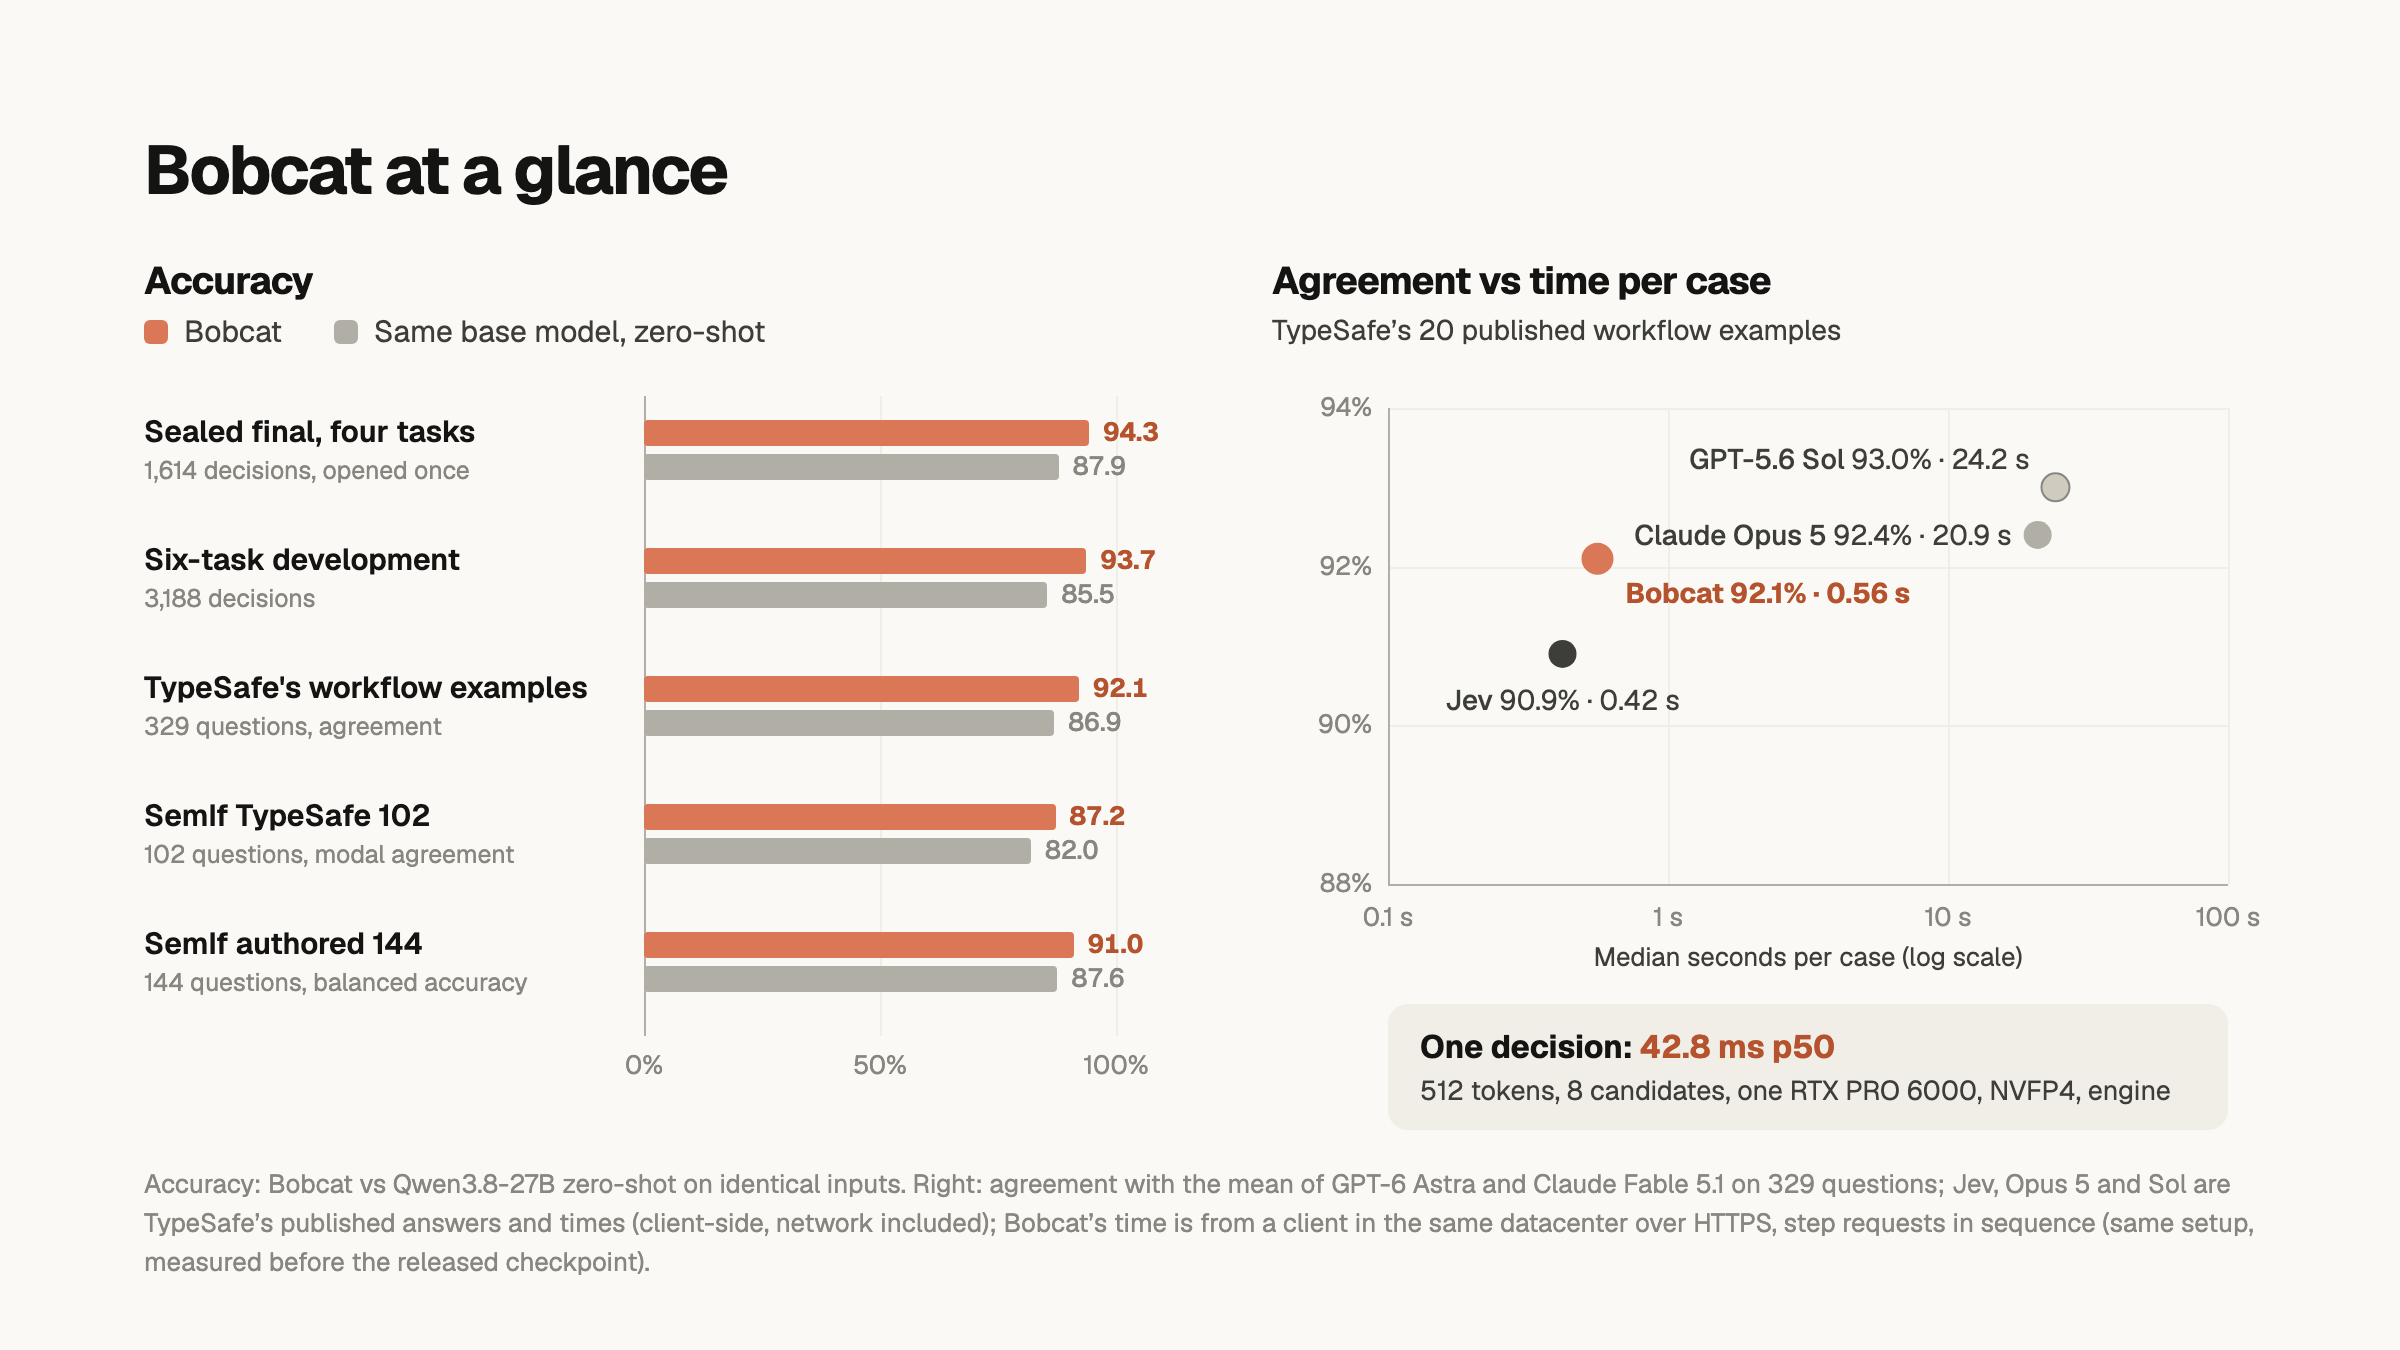
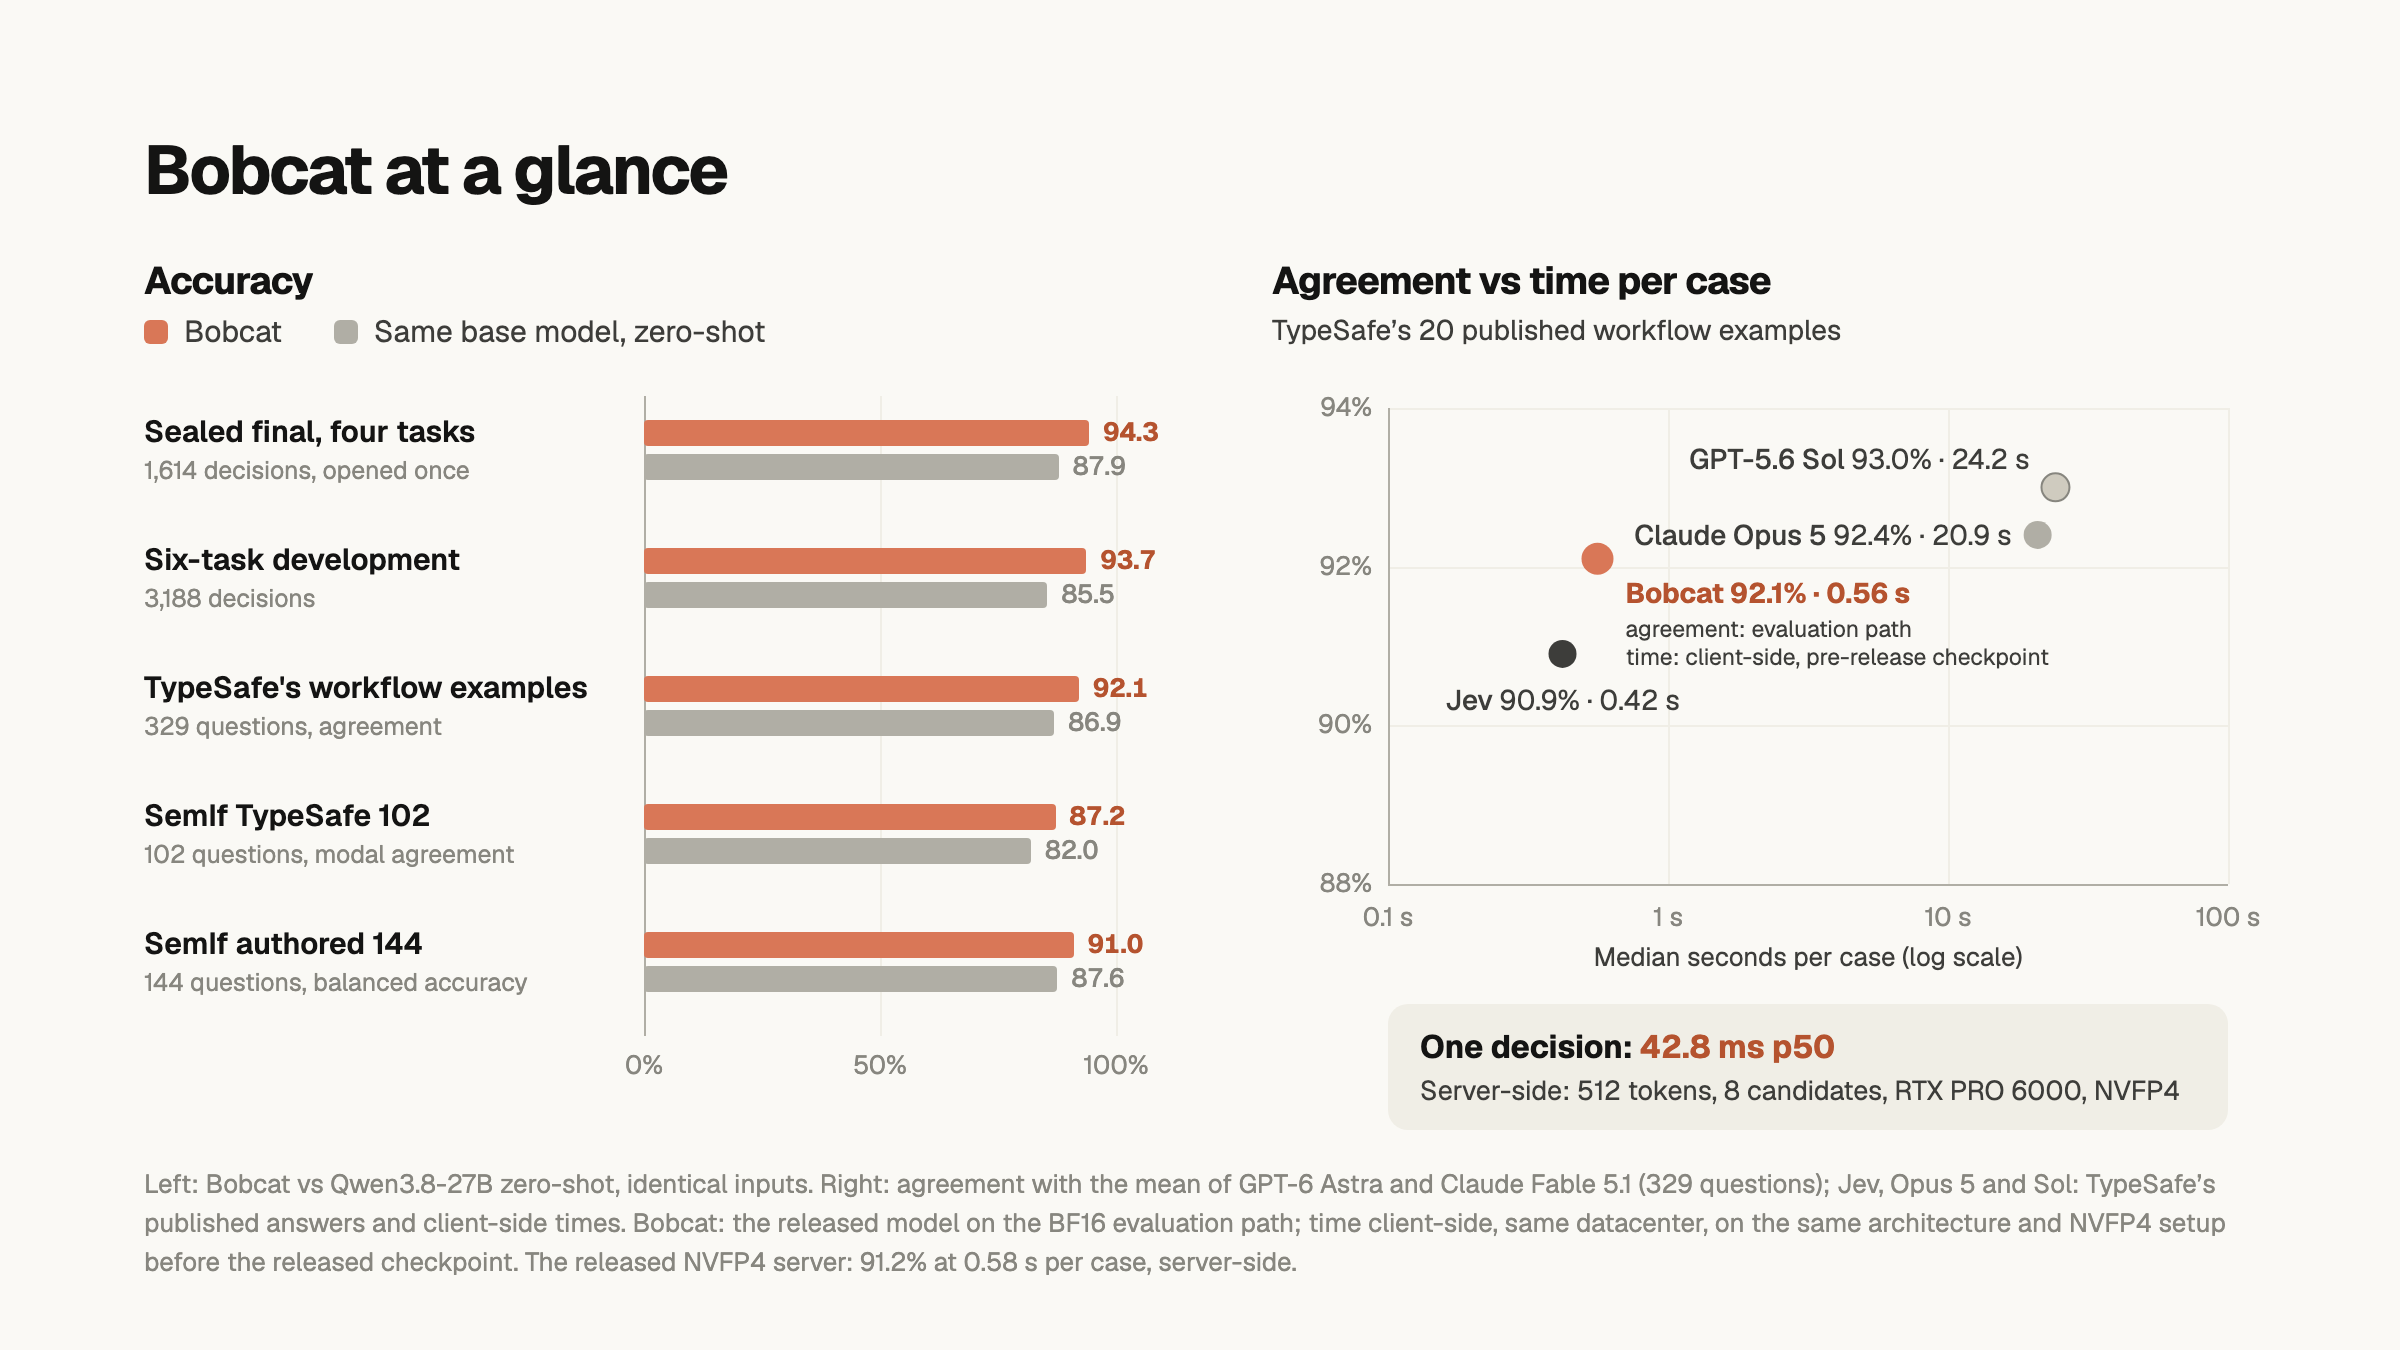
README: the blog's at-a-glance figure with both conditions labelled and its caption; NVFP4 card: weights size 20.6 GB

Changed region(s): [[0.0625, 0.8711, 0.9375, 0.9644], [0.5938, 0.7778, 0.9062, 0.84], [0.6562, 0.4667, 0.8438, 0.4978]]

diff --git a/README.md b/README.md
@@ -28,12 +28,12 @@
 
 ---
 
-![Bobcat at a glance. Left, accuracy against the same base model zero-shot on identical inputs: sealed final (four tasks, 1,614 decisions) 94.3% against 87.9%, six-task development 93.7% against 85.5%, TypeSafe's workflow examples 92.1% against 86.9%, SemIf TypeSafe 102 87.2% against 82.0%, SemIf authored 144 91.0% against 87.6%. Right, agreement with TypeSafe's reference against median time per case on TypeSafe's 20 published workflow examples: Jev 90.9% at 0.42 s, Bobcat 92.1% (evaluation path) at 0.56 s (same architecture, from a client in the same datacenter, measured before the released checkpoint), Claude Opus 5 92.4% at 20.9 s, GPT-5.6 Sol 93.0% at 24.2 s. One decision takes 42.8 ms at the median on one RTX PRO 6000 in NVFP4.](assets/readme/bobcat-at-a-glance.png)
+![Bobcat at a glance. Left, accuracy against the same base model zero-shot on identical inputs: four-task sealed final 94.3% against 87.9%, six-task development 93.7% against 85.5%, TypeSafe's workflow examples 92.1% against 86.9%, SemIf TypeSafe 102 87.2% against 82.0%, SemIf authored 144 91.0% against 87.6%. Right, agreement with TypeSafe's reference against median time per case on TypeSafe's 20 published workflow examples, log time axis: Jev 90.9% at 0.42 s client-side as published, Bobcat 92.1% agreement from the evaluation path at 0.56 s client-side from the same datacenter on the same architecture before the released checkpoint, Claude Opus 5 92.4% at 20.9 s, GPT-5.6 Sol 93.0% at 24.2 s. One decision takes 42.8 ms at the median server-side on one RTX PRO 6000 in NVFP4.](assets/readme/bobcat-at-a-glance.png)
 
-<sub>Right-hand chart: Bobcat's point pairs the released model's agreement on the evaluation path (92.1%) with
-the median time per case from a client in the same datacenter on the same architecture and serving setup,
-measured before the released checkpoint (0.56 s). The released checkpoint served in NVFP4 agrees on 91.2% at
-0.52-0.58 s per case, server-side.</sub>
+<sub>Left: Bobcat vs Qwen3.8-27B zero-shot, identical inputs. Right: agreement with the mean of GPT-6 Astra and Claude
+Fable 5.1 (329 questions); Jev, Opus 5 and Sol: TypeSafe's published answers and client-side times. Bobcat: the
+released model on the BF16 evaluation path; time client-side, same datacenter, on the same architecture and NVFP4
+setup before the released checkpoint. The released NVFP4 server: 91.2% at 0.58 s per case, server-side.</sub>
 
 Bobcat reads a state (text or JSON), your questions and the answers you allow, and returns
 typed decisions your code can threshold. It reads the logits of the offered candidates at

diff --git a/release/hf/bobcat-1.1-nvfp4/README.md b/release/hf/bobcat-1.1-nvfp4/README.md
@@ -48,6 +48,7 @@ uv pip install --no-config --python .venv-serve/bin/python vllm==0.30.0 fastapi 
   "tokenizers>=0.21" huggingface_hub typesafe-sdk==0.7.1
 export PYTHONPATH=$PWD/src PY=.venv-serve/bin/python
 
+# These weights (20.6 GB), then the typed-decision server
 $PY -c "from huggingface_hub import snapshot_download as s; s('sanghwa-na/bobcat-1.1-nvfp4', local_dir='bobcat-1.1-nvfp4')"
 VLLM_USE_FLASHINFER_SAMPLER=0 $PY -m bobcat.api_server --engine vllm --model bobcat-1.1-nvfp4 \
   --compiler-model bobcat-1.1-nvfp4/compiler --quantization none --temperature 1.2008 \
